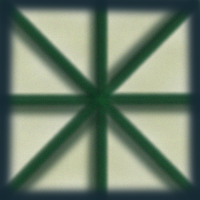
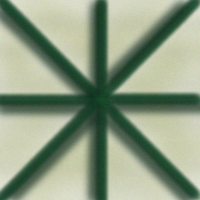
FEATURE: country flag

Changed region(s): [[0.0, 0.0, 1.0, 1.0]]

diff --git a/src/main/resources/com/infernal_crew/mini_politics/main_view.css b/src/main/resources/com/infernal_crew/mini_politics/main_view.css
@@ -151,5 +151,9 @@
 }
 
 .flagPane {
-    -fx-effect: dropshadow(gaussian, rgba(0,0,0,0.75),10,0,0,1);
+    -fx-effect: dropshadow(gaussian, rgba(0,0,0,0.75),6,0,0,1);
+    -fx-border-color:
+        radial-gradient(center 50% 50%,radius 100%,#284bbf,#3aa9d9);
+    -fx-border-radius:2;
+    -fx-border-width:6;
 }
